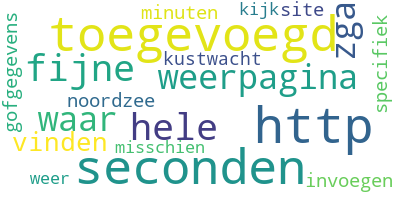
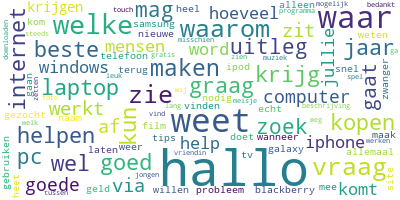
added wordcloud to question page and some filters to the answer page

diff --git a/templates/answers.html b/templates/answers.html
@@ -3,7 +3,16 @@
   <head>
     <script type = "text/javascript">
     function showImage(){
-        document.getElementById('img').style.visibility=document.getElementById('img').style.visibility == 'visible'? 'hidden' : 'visible';
+        var x = document.getElementById("img")
+        x.style.visibility=x.style.visibility == 'visible'? 'hidden' : 'visible';
+    }
+    function showFiltSearch() {
+        var x = document.getElementById("filters");
+        if (x.style.display == "none") {
+            x.style.display = "block";
+        } else {
+            x.style.display = "none";
+        }
     }
     </script>
       <link type="text/css" rel="stylesheet" href="{{ url_for('static', filename='stylesheets/style.css') }}">
@@ -11,31 +20,26 @@
   </head>
 
   <body>
+
     <div class="body">
       <h1><a class="header" href="{{ url_for('.index') }}">Eend eend ga</a></h1>
       <p>Doe zoeken dan slet.</p>
       <div class="navbar">
-        <form class="form" action = "http://localhost:5000/result" method = "POST">
-          <input type="text" placeholder="doe ff typtyp hier" name="search">
-          <button class="btn" type="submit">getwoe</button>
+        <div>
+          <form action="{{ url_for('.index') }}">
+          <button class="btn" type="submit">Nogmaals zoeken</button>
+          </form>
+        </div>
+        <form class="form" action="/a_filters/{{ data['_source']['questionId'] }}" method = "POST">
+          <a style="cursor: pointer;" onclick="showFiltSearch()">Filters</a>
 
-          <a style="cursor: pointer;" onclick="showAdvSearch()">Extra shit</a>
-          <div id="extra" style="display:none;">
-            Tijd units:
-            <input type="date" name="startdate" min="2009-01-28" max="2013-01-13" value={{request.form['startdate']}}>
-            <input type="date" name="enddate" min="2009-01-28" max="2013-01-13" value={{request.form['enddate']}}>
-
-            Categorie units:
-            <select name = "categorylist">
-              <option value=""> -Kies een categorie- </option>
-              {% for hit in cat['hits']['hits'] %}
-                <option value = {{ hit['_source']['categoryId'] }}> {{ hit['_source']['category'] }} </option>
-              {% endfor %}
-
-            </select>
+          <div id="filters" style="display:none;">
+            <input type="checkbox" name="best_answer" > Laat alleen beste antwoord zien<br>
+            <input type="text" placeholder="Mininmale aan likes" name="likes">
+              <button class="btn" type="submit">Pas filters toe</button>
           </div>
-
         </form>
+        <a href="/answer/{{ data['_source']['questionId'] }}" style="cursor: pointer;">Verwijder filters</a>
       </div>
     </div>
     <table class="table">
@@ -73,16 +77,7 @@
     {% endfor %}
     </table>
 
-    <script>
-      function showAdvSearch() {
-          var x = document.getElementById("extra");
-          if (x.style.display == "none") {
-              x.style.display = "block";
-          } else {
-              x.style.display = "none";
-          }
-      }
-    </script>
+
 
   </body>
 </html>

diff --git a/templates/result.html b/templates/result.html
@@ -1,6 +1,29 @@
 <!DOCTYPE html>
 <html>
   <head>
+    <script>
+
+    function showImage(){
+        var x = document.getElementById("img")
+        x.style.visibility=x.style.visibility == 'visible'? 'hidden' : 'visible';
+    }
+      function showAdvSearch() {
+          var x = document.getElementById("extra");
+          if (x.style.display == "none") {
+              x.style.display = "block";
+          } else {
+              x.style.display = "none";
+          }
+      }
+      function showFiltSearch() {
+          var x = document.getElementById("filters");
+          if (x.style.display == "none") {
+              x.style.display = "block";
+          } else {
+              x.style.display = "none";
+          }
+      }
+    </script>
     <link type="text/css" rel="stylesheet" href="{{ url_for('static', filename='stylesheets/style.css') }}">
     <title>Results | {{request.form['search']}}</title>
   </head>
@@ -15,7 +38,7 @@
           <input type="text" value={{request.form['search']}} name="search">
           <button class="btn" type="submit">getwoe</button>
 
-          <a style="cursor: pointer;" onclick="showAdvSearch()">Extra shit</a>
+          <a style="cursor: pointer;" onclick="showAdvSearch()">Geadvanceerd zoeken</a>
           <div id="extra" style="display:none;">
             Tijd units:
             <input type="date" name="startdate" min="2009-01-28" max="2013-01-13" value={{request.form['startdate']}}>
@@ -30,12 +53,34 @@
 
             </select>
           </div>
+          <!-- Voor de filters -->
+          <!-- <form class="form" action="/q_filters/{{ request.form['search'] }}" method = "POST">
+            <a style="cursor: pointer;" onclick="showFiltSearch()">Filters</a>
+            <div id="filters" style="display:none;">
+              Categorie units:
+              <select name = "categorylist">
+                <option value=""> -Kies een categorie- </option>
+                {% for hit in cat['hits']['hits'] %}
+                  <option value = "{{ hit['_source']['categoryId'] }}"> {{ hit['_source']['category'] }} </option>
+                {% endfor %}
+              <input type="text" placeholder="User Id" name="user_field">
+                <button class="btn" type="submit">Pas filters toe</button>
+            </div>
+          </form> -->
 
         </form>
+
+
       </div>
+
+
 
     </div>
 
+    {% if wordcloud %}
+    <input id="text" type="button" value="Wordcloud" onclick="showImage();"/>
+    <img id="img" src="{{ path }}" style="visibility:hidden"/>
+    {% endif %}
     <div>
       <a href="{{ url_for('.timeline') }}">Timeline</a>
     </div>
@@ -66,15 +111,6 @@
       {% endfor %}
     </table>
 
-    <script>
-      function showAdvSearch() {
-          var x = document.getElementById("extra");
-          if (x.style.display == "none") {
-              x.style.display = "block";
-          } else {
-              x.style.display = "none";
-          }
-      }
-    </script>
+
   </body>
 </html>

diff --git a/search.py b/search.py
@@ -154,17 +154,30 @@ def result():
         }
 
     res = es.search(index="questions", size=10000, doc_type="question", body=body)
+
+
+    DutchStop= stopwords.words('dutch')
+    tes = []
+    for item in res['hits']['hits']:
+        tokens = Counter([w for w in nltk.word_tokenize(item['_source']['question'].lower()) if w.isalpha() and not w in set(DutchStop)])
+        tes.append(tokens.keys())
+    flat_list = [item for sublist in tes for item in sublist]
+    flat_list = Counter(flat_list)
+    if len(flat_list) > 0:
+        wc = WordCloud(max_font_size=50, max_words=100, background_color="white").generate_from_frequencies(flat_list)
+        wc.to_file("static/img/wordcloud.png")
+
+
     cat = es.search(index="categories", size=10000, doc_type="category", body=booty)
     tl.create_timeline(res)
     tl.setName(keyword)
-    return render_template("result.html",result = res, cat=cat)
+    return render_template("result.html",result = res, cat=cat, wordcloud=flat_list,path = "../static/img/wordcloud.png")
 
 @app.route('/answer/<int:question_Id>')
 def answers(question_Id):
     q_res = es.get(index="questions", doc_type="question", id=question_Id)
 
     body={
-        "size": 1000,
         "query": {
             "match": {
                 "questionId": question_Id
@@ -193,6 +206,154 @@ def answers(question_Id):
         wc = WordCloud(max_font_size=50, max_words=100, background_color="white").generate_from_frequencies(flat_list)
         wc.to_file("static/img/wordcloud.png")
     return render_template("answers.html",data = q_res,result = a_res, wordcloud = flat_list,path = "../static/img/wordcloud.png", cat=cat)
+
+
+@app.route('/a_filters/<int:question_Id>', methods = ['POST'])
+def a_filters(question_Id):
+    likes = request.form['likes']
+    if request.form.get('best_answer'):
+        best = True
+    else:
+        best = False
+    q_res = es.get(index="questions", doc_type="question", id=question_Id)
+    if request.method == "POST":
+
+        booty = {
+            "query": {
+                "match_all" : {}
+            }
+        }
+        if not likes:
+            if not best:
+                body={
+                    "query": {
+                        "match": {
+                            "questionId": question_Id
+                        }
+                    }
+                }
+            else:
+                body = {
+                   "query" : {
+                      "constant_score" : {
+                         "filter" : {
+                            "bool" : {
+                                "must" : [
+                                    { "term" : {"questionId" : question_Id}},
+                                    { "term" : {"isBestAnswer" : 1}}
+                                  ]
+                                }
+                            }
+                        }
+                    }
+                }
+        elif not best:
+            body = {
+               "query" : {
+                  "constant_score" : {
+                     "filter" : {
+                        "bool" : {
+                            "must" : [
+                                { "term" : {"questionId" : question_Id}}
+                              ],
+                            "should": [
+                                { "range": {"thumbsUp" : { "gte": likes }}}
+                              ]
+                            }
+                        }
+                    }
+                }
+            }
+        else:
+            body = {
+               "query" : {
+                  "constant_score" : {
+                     "filter" : {
+                        "bool" : {
+                            "must" : [
+                                { "term" : {"questionId" : question_Id}},
+                                { "term" : {"isBestAnswer" : 1}},
+                              ],
+                             "should": [
+                                 { "range": {"thumbsUp" : { "gte": likes }}}
+                               ]
+                            }
+                        }
+                    }
+                }
+            }
+
+
+
+        a_res = es.search(index="answers", size=10000, doc_type="answer", body=body)
+        cat = es.search(index="categories", size=10000, doc_type="category", body=booty)
+        return render_template("answers.html",data = q_res,result = a_res, cat=cat)
+
+# Voor de filters
+# app.route('/q_filters/<query>', methods = ['POST'])
+# def q_filters(query):
+#     category = request.form['categorylist']
+#     # print(category)
+#     booty = {
+#         "query": {
+#             "match_all" : {}
+#         }
+#     }
+#
+#     if request.method == "POST":
+#         if not category:
+#             body = {
+#                 "query": {
+#                     "multi_match": {
+#                         "query": query,
+#                         "fields": ["question", "description"]
+#                     }
+#                 }
+#             }
+#         else:
+#             body = {
+#                 "query":{
+#                     "bool":{
+#                         "must":{
+#                             "multi_match":{
+#                                 "query": query,
+#                                 "fields":[ "question","description" ]
+#                             }
+#                         },
+#                         "filter": [{
+#                             "bool" : {
+#                                 "must" : [
+#                                     {
+#                                         "multi_match": {
+#                                             "query": category,
+#                                             "fields": ["category"]
+#                                         }
+#                                     }
+#                                 ]
+#                             }
+#                         }]
+#                     }
+#                 }
+#             }
+#
+#     res = es.search(index="questions", size=10000, doc_type="question", body=body)
+#
+#
+#     DutchStop= stopwords.words('dutch')
+#     tes = []
+#     for item in res['hits']['hits']:
+#         tokens = Counter([w for w in nltk.word_tokenize(item['_source']['question'].lower()) if w.isalpha() and not w in set(DutchStop)])
+#         tes.append(tokens.keys())
+#     flat_list = [item for sublist in tes for item in sublist]
+#     flat_list = Counter(flat_list)
+#     if len(flat_list) > 0:
+#         wc = WordCloud(max_font_size=50, max_words=100, background_color="white").generate_from_frequencies(flat_list)
+#         wc.to_file("static/img/wordcloud.png")
+#
+#     cat = es.search(index="categories", size=10000, doc_type="category", body=booty)
+#     tl.create_timeline(res)
+#     tl.setName(keyword)
+#     return render_template("result.html",result = res, cat=cat, wordcloud=flat_list,path = "../static/img/wordcloud.png")
 
 
 @app.route("/timeline")
